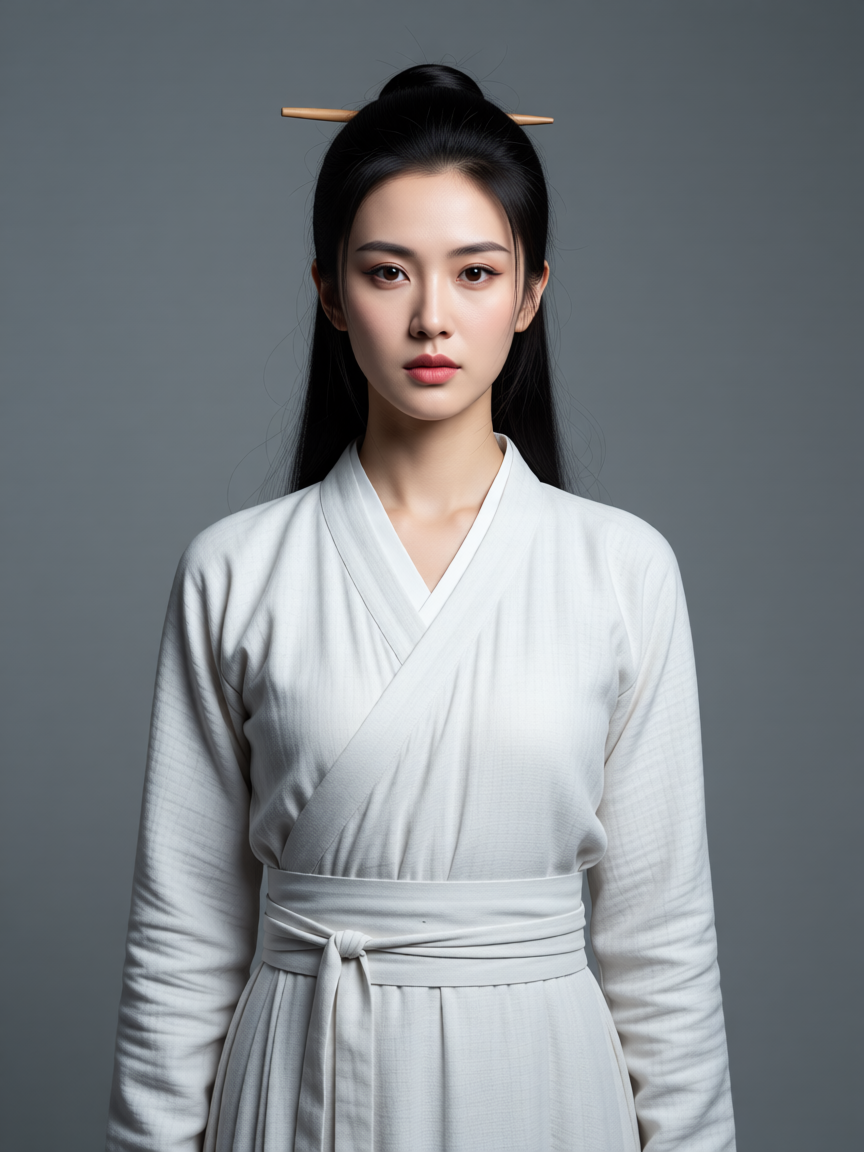
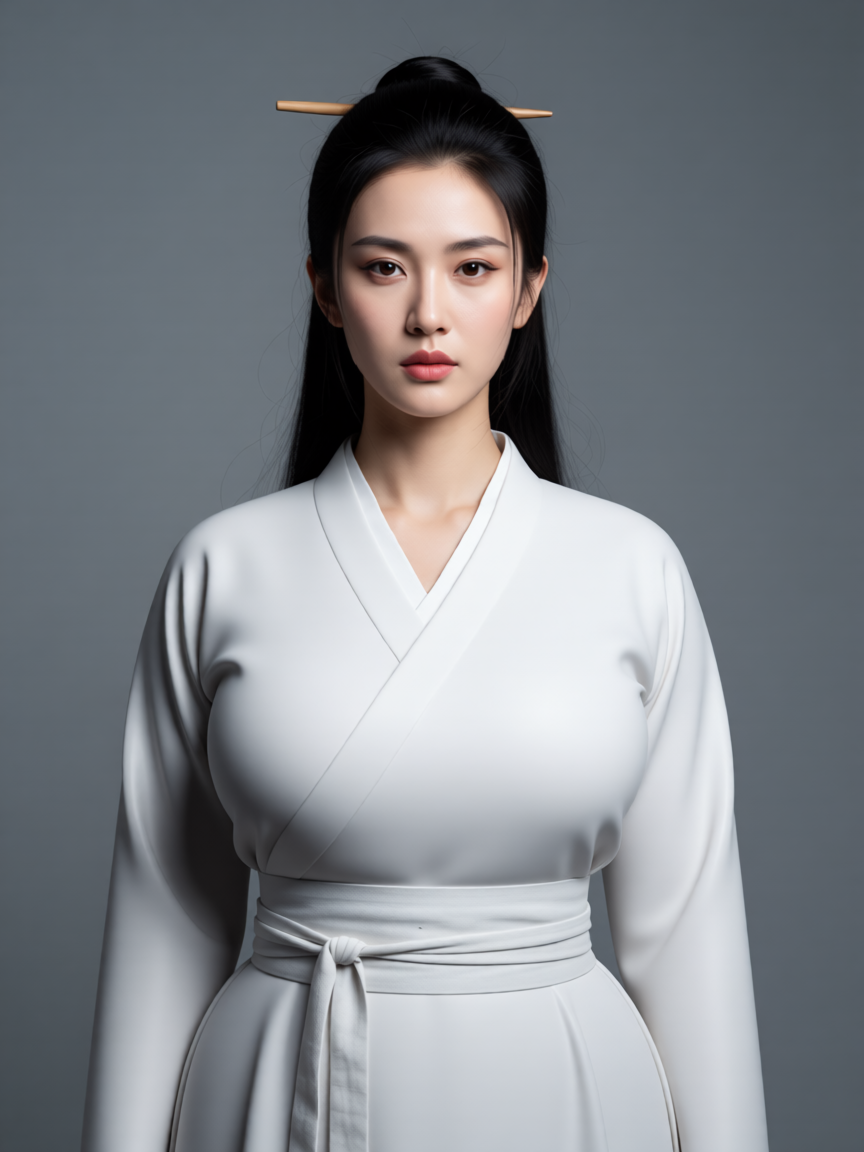
zhong-tian live action: heroines' portraits are the bust-only edit A (owner: 都用A)
Claude-Session: https://claude.ai/code/session_018EYovKNmSMKVnfFFMhZJH2

diff --git a/docs/videos/series-plans/zhong-tian-qu-qi/production/assets/refs-live/README.md b/docs/videos/series-plans/zhong-tian-qu-qi/production/assets/refs-live/README.md
@@ -16,4 +16,4 @@
 | set-xujia-yuan / xianya / shiji -l1 | v2 37002 |
 | set-xujia-zao / xujia-wu / liuxi-he -l1 | v2 37001 |
 
-三位女主角另外要一張「胸部豐滿一點」的腰上照（站主 2026-11-07），選定後放在這裡，命名 `<id>-figure-l1.png`。
+三位女主角（唐小棠、秦霜、阿玲）的 `-portrait-l1` 換成「只改胸部」那一輪的 A（`live-bust/out2/<id>-onlybust-39001.png`，站主 2026-11-07：「都用A好了」）；換之前的原圖留在 `<id>-portrait-l1-before-bust.png`。
